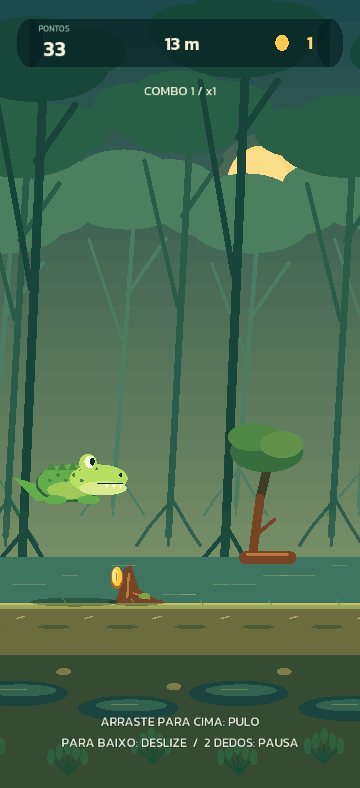
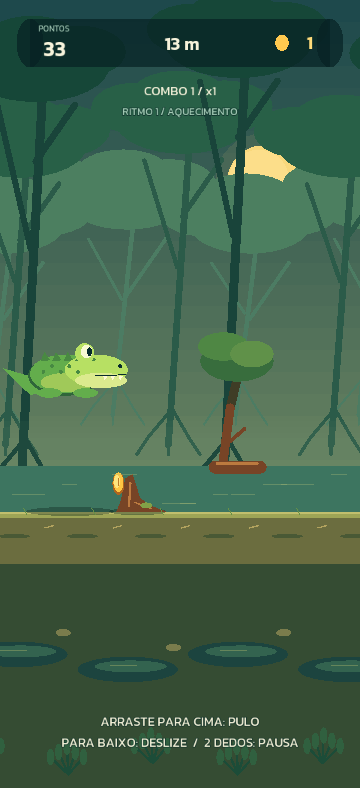
feat: improve framing and progressive obstacle sequences

diff --git a/src/Level.cpp b/src/Level.cpp
@@ -30,6 +30,7 @@ void Level::Reset(std::uint32_t seed, bool procedural) {
     entities.clear();
     nextEncounter = 30.0;
     encounterCount = 0;
+    previousPattern = -1;
     nextId = 1;
     generate = procedural;
     GenerateAhead(0.0);
@@ -46,23 +47,46 @@ void Level::Spawn(EntityType type, double distance, double height) {
 void Level::GenerateAhead(double playerDistance) {
     if (!generate) return;
     while (nextEncounter < playerDistance + Balance::LookAhead) {
-        const bool ground = random() % 2 == 0;
-        Spawn(ground ? EntityType::Ground : EntityType::High, nextEncounter);
-        // Recompensa junto ao obstaculo valoriza a acao correta.
-        Spawn(ground ? EntityType::Fish : EntityType::Crab, nextEncounter, ground ? 2.0 : 0.5);
-        for (int coin = 1; coin <= 3; ++coin) {
-            Spawn(EntityType::Coin, nextEncounter + 12.0 + coin * 2.0, 0.5);
+        // Difficulty follows this run, never the saved profile: retries start gently.
+        const double intensity = std::clamp(nextEncounter / 1800.0, 0.0, 1.0);
+        const int available = nextEncounter < 180 ? 2 : nextEncounter < 550 ? 4 : 6;
+        int pattern = static_cast<int>(random() % available);
+        if (pattern == previousPattern) pattern = (pattern + 1) % available;
+        previousPattern = pattern;
+        // Singles, alternating pairs, repeated jumps and three-action combinations.
+        static constexpr EntityType patterns[6][3] = {
+            {EntityType::Ground, EntityType::Ground, EntityType::Ground},
+            {EntityType::High, EntityType::High, EntityType::High},
+            {EntityType::Ground, EntityType::High, EntityType::Ground},
+            {EntityType::High, EntityType::Ground, EntityType::High},
+            {EntityType::Ground, EntityType::Ground, EntityType::High},
+            {EntityType::High, EntityType::Ground, EntityType::High}
+        };
+        const int count = pattern < 2 ? 1 : pattern < 4 ? 2 : 3;
+        // Using the maximum speed guarantees recovery time even while accelerating.
+        const double actionGap = Balance::MaximumSpeed * (1.65 - .30 * intensity);
+        double at = nextEncounter;
+        for (int action = 0; action < count; ++action) {
+            const auto type = patterns[pattern][action];
+            const bool jump = type == EntityType::Ground;
+            Spawn(type, at);
+            Spawn(jump ? EntityType::Fish : EntityType::Crab, at, jump ? 2.0 : .5);
+            // Coin trails preview the required action; no optional jump before a branch.
+            for (int coin = -1; coin <= 1; ++coin)
+                Spawn(EntityType::Coin, at + coin * 2.0, jump ? 1.8 : .5);
+            if (action + 1 < count) at += actionGap;
         }
-        const bool rare = random() % 5 == 0;
-        Spawn(rare ? EntityType::RareFish : EntityType::Crab, nextEncounter + 25.0, rare ? 2.0 : 0.5);
+        // A short reward/recovery lane separates combinations.
+        for (int coin = 0; coin < 3; ++coin)
+            Spawn(EntityType::Coin, at + 16 + coin * 3, .5);
+        Spawn(random() % 5 == 0 ? EntityType::RareFish : EntityType::Crab, at + 22, .5);
         ++encounterCount;
         if (encounterCount % 4 == 0) {
             Spawn(encounterCount % 8 == 0 ? EntityType::Magnet : EntityType::Shield,
-                  nextEncounter + 32.0, 0.5);
+                  at + 25.0, 0.5);
         }
         // Espacamento permite terminar uma acao antes do proximo obstaculo.
-        const double minimumGap = std::max(48.0, 72.0 - nextEncounter * 0.015);
-        nextEncounter += minimumGap + static_cast<double>(random() % 13);
+        nextEncounter = at + 58.0 - 18.0 * intensity + static_cast<double>(random() % 9);
     }
 }
 

diff --git a/visual/Source/MainScene.cpp b/visual/Source/MainScene.cpp
@@ -33,9 +33,10 @@
 using namespace ax;
 namespace {
 constexpr float Contact = 168;
-constexpr float PixelsPerMeter = 12;
-constexpr float HeightScale = 66;
-constexpr float CrocScale = 1.18f;
+// More preview distance at top speed while keeping the character prominent.
+constexpr float PixelsPerMeter = 9;
+constexpr float HeightScale = 76;
+constexpr float CrocScale = 1.28f;
 const Color4F Ink(0.035f, 0.17f, 0.18f, 1);
 const Color4F Lime(0.78f, 0.94f, 0.39f, 1);
 const Color4B Cream(247, 243, 219, 255);
@@ -59,7 +60,7 @@ std::string whole(double value) { return std::to_string(static_cast<long long>(v
 bool MainScene::init() {
     if (!Scene::init()) return false;
     viewHeight = Director::getInstance()->getVisibleSize().height;
-    floorY = viewHeight * 0.235f;
+    floorY = viewHeight * 0.35f;
     world = DrawNode::create(); addChild(world);
     panels = DrawNode::create(); addChild(panels, 1);
     ui = Node::create(); addChild(ui, 2);
@@ -205,7 +206,7 @@ void MainScene::suspend() {
 
 void MainScene::rebuildUI() {
     ui->removeAllChildren(); panels->clear(); buttons.clear();
-    score = distance = coins = status = gestureHint = nullptr;
+    score = distance = coins = status = pace = gestureHint = nullptr;
     gestures.Cancel(); activeTouch = -1; touchAction = Action::None;
     const auto state = game.GetState();
     const auto safe = Director::getInstance()->getSafeAreaRect();
@@ -253,6 +254,8 @@ void MainScene::rebuildUI() {
     coins = text(whole(game.GetRunCoins()), 24, {413, top - 29}, Color4B(255,219,122,255), true);
     if (state == GameState::Playing) {
         status = text("", 17, {240, top - 93}, Cream);
+        pace = text("", 14, {240, top - 121}, Muted);
+        pace->enableOutline(Color4B(13,47,42,210), 1);
         gestureHint = text("ARRASTE PARA CIMA: PULO\nPARA BAIXO: DESLIZE  /  2 DEDOS: PAUSA",
                            17, {240, bottom + 49}, Cream);
         gestureHint->setAlignment(TextHAlignment::CENTER);
@@ -432,7 +435,8 @@ void MainScene::drawEntity(const VisualEntity& object) {
 
 void MainScene::drawWorld() {
     world->clear();
-    const float h=viewHeight, ground=floorY;
+    const float h=viewHeight;
+    const float ground=game.GetState()==GameState::Menu ? h*.29f : floorY;
     // Sky reaches the real edges of the device; no letterboxed bands or reserved control area.
     for(int i=0;i<36;++i) {
         const float t=i/35.0f;
@@ -517,7 +521,7 @@ void MainScene::update(float dt) {
     const auto size = Director::getInstance()->getVisibleSize();
     if (std::abs(size.height - viewHeight) > .5f) {
         viewHeight = size.height;
-        floorY = viewHeight * .235f;
+        floorY = viewHeight * .35f;
         rebuildUI();
     }
     // Clamp a slow frame instead of teleporting through obstacles after a stall.
@@ -539,6 +543,14 @@ void MainScene::update(float dt) {
     if (score) score->setString(whole(game.GetScore()));
     if (distance) distance->setString(whole(game.GetDistance())+" m");
     if (coins) coins->setString(whole(game.GetRunCoins()));
+    if (pace) {
+        const double meters = game.GetDistance();
+        pace->setString(meters < 180 ? "RITMO 1 / AQUECIMENTO" :
+                        meters < 550 ? "RITMO 2 / SEQUENCIAS DUPLAS" :
+                        meters < 1100 ? "RITMO 3 / DESAFIOS TRIPLOS" :
+                        meters < 1800 ? "RITMO 4 / MANGUE ACELERADO" :
+                                        "RITMO 5 / CORRIDA SELVAGEM");
+    }
     if (status) {
         std::string info;
         if (!shop && game.GetShieldSeconds()>0) info+="ESCUDO "+whole(std::ceil(game.GetShieldSeconds()))+"s  ";

diff --git a/tests/mechanics_tests.cpp b/tests/mechanics_tests.cpp
@@ -264,7 +264,7 @@ void SeedAndGeneration() {
     for (int distance = 10; distance < 10000; distance += 10) {
         a.Crossed(distance - 10, distance);
         a.GenerateAhead(distance);
-        CHECK(a.GetEntities().size() < 50); // Percurso infinito com memoria limitada.
+        CHECK(a.GetEntities().size() < 90); // Includes the complete last generated combination.
         CHECK(!a.GetEntities().empty());
         for (const auto& entity : a.GetEntities()) CHECK(entity.distance > distance);
     }
@@ -322,7 +322,7 @@ void PlayableProceduralRuns() {
     for (std::uint32_t seed = 0; seed < 100; ++seed) {
         GameManager game;
         game.StartGame(seed);
-        for (int step = 0; step < 1600 && game.IsPlaying(); ++step) {
+        for (int step = 0; step < 4000 && game.IsPlaying(); ++step) {
             if (game.GetPlayer().IsGrounded() && !game.GetPlayer().IsSliding()) {
                 for (const auto& entity : game.GetLevel().GetEntities()) {
                     if ((entity.distance - game.GetDistance()) / game.GetSpeed() > 0.3) break;
@@ -337,9 +337,38 @@ void PlayableProceduralRuns() {
             game.TakeMessages();
         }
         CHECK(game.IsPlaying());
-        CHECK(game.GetDistance() > 1300 && game.GetObstaclesPassed() >= 18);
+        CHECK(game.GetDistance() > 4000 && game.GetObstaclesPassed() >= 90);
         CHECK(game.GetFoods() > 20 && game.GetRunCoins() > 40);
         CHECK(game.GetScore() > static_cast<std::int64_t>(game.GetDistance()));
+    }
+}
+
+void ProgressiveEncounterSafety() {
+    for (std::uint32_t seed = 0; seed < 100; ++seed) {
+        Level level;
+        level.Reset(seed);
+        double previous = -100;
+        int early = 0, late = 0, repeated = 0, alternating = 0;
+        EntityType previousType = EntityType::Coin;
+        for (int distance = 10; distance <= 6000; distance += 10) {
+            for (const auto& entity : level.Crossed(distance - 10, distance)) {
+                if (!IsObstacle(entity.type)) continue;
+                // At maximum speed, enough time to finish either action and react again.
+                const double seconds = (entity.distance - previous) / Balance::MaximumSpeed;
+                CHECK(seconds >= 1.35 - 1e-7);
+                CHECK(seconds > Balance::SlideSeconds + .4);
+                CHECK(seconds > 2 * Balance::JumpForce / -Balance::Gravity + .4);
+                if (entity.distance <= 1000) ++early;
+                if (entity.distance >= 5000) ++late;
+                if (previousType == entity.type) ++repeated;
+                else ++alternating;
+                previous = entity.distance;
+                previousType = entity.type;
+            }
+            level.GenerateAhead(distance);
+        }
+        CHECK(late > early);
+        CHECK(repeated > 5 && alternating > 5);
     }
 }
 
@@ -352,7 +381,8 @@ int main() {
         {"pausa e reinicio", PauseAndRestart}, {"recompensas e loja", RewardsAndShop},
         {"velocidade e passos de tempo", SpeedAndFrameIndependence}, {"geracao e seeds", SeedAndGeneration},
         {"persistencia e save invalido", PersistenceAndInvalidSave},
-        {"100 percursos jogaveis", PlayableProceduralRuns}
+        {"100 percursos jogaveis", PlayableProceduralRuns},
+        {"progressao e recuperacao entre obstaculos", ProgressiveEncounterSafety}
     };
     int failures = 0;
     for (const auto& test : tests) {

diff --git a/visual/Source/MainScene.h b/visual/Source/MainScene.h
@@ -54,6 +54,7 @@ private:
     ax::Label* distance = nullptr;
     ax::Label* coins = nullptr;
     ax::Label* status = nullptr;
+    ax::Label* pace = nullptr;
     ax::Label* gestureHint = nullptr;
     std::vector<Button> buttons;
     std::filesystem::path savePath;

diff --git a/include/Level.h b/include/Level.h
@@ -32,6 +32,7 @@ private:
     std::vector<Entity> entities;
     double nextEncounter = 30.0;
     int encounterCount = 0;
+    int previousPattern = -1;
     std::uint64_t nextId = 1;
     bool generate = true;
 };

diff --git a/CRONOGRAMA_PRODUCAO.md b/CRONOGRAMA_PRODUCAO.md
@@ -1,6 +1,6 @@
 # JacaRun — Cronograma de produção e monetização
 
-**Versão:** 1.2 · **Atualizado em:** 24/09/2026 · **Status:** revisão visual 0.3 após vídeo do primeiro teste Android; reteste mobile em andamento
+**Versão:** 1.3 · **Atualizado em:** 24/09/2026 · **Status:** revisão 0.4 de enquadramento e percurso; reteste mobile em andamento
 
 **Objetivo:** publicar um jogo mobile estável na Google Play e na App Store, com monetização por anúncios e acompanhamento de retenção, custos e receita.
 
@@ -12,9 +12,9 @@ A rota proposta é **Android primeiro, lançamento inicial no Brasil e iOS na se
 | --- | --- | --- |
 | Regras do jogo | Núcleo C++ ligado à cena Axmol: corrida contínua, pulo, deslize, obstáculos, alimentos, moedas, combos e power-ups | Validar sensação de jogo e colisões em aparelho |
 | Progressão | Loja visual, acessórios visíveis, XP, níveis, recordes e save no diretório gravável da plataforma | Teste mobile, balanceamento, migração e recuperação guiada de save |
-| Testes | 14 grupos/100 percursos do núcleo + 3 grupos de apresentação/gestos aprovados; prova visual em duas proporções; vídeo do usuário demonstra a 0.2 no Android | Reteste físico da 0.3, integração dos SDKs, anúncios e atualização de versão |
+| Testes | 15 grupos do núcleo + 3 de apresentação/gestos aprovados; prova visual em duas proporções; vídeos Android da 0.2/0.3 | Reteste físico da 0.4, integração dos SDKs, anúncios e atualização de versão |
 | Visual e áudio | Mangue, parallax, personagem e UI provisórios desenhados em código; fonte com OFL | Arte e animações finais, tutorial, música, efeitos e inventário de licenças |
-| Android e iOS | Axmol 2.11.4 fixado; APK Android arm64 em revisão 0.3.0; entradas iOS preparadas | Reteste físico; build iOS em Mac, assinaturas de produção, beta e submissão |
+| Android e iOS | Axmol 2.11.4 fixado; APK Android arm64 em revisão 0.4.0; entradas iOS preparadas | Reteste físico; build iOS em Mac, assinaturas de produção, beta e submissão |
 | Anúncios | Não integrados | Contas, SDKs, política etária, consentimento, rewarded, validação e relatórios |
 | Serviços online | Não implementados | O primeiro lançamento não depende de login, nuvem ou ranking |
 | Ambiente local | Windows validado; primeiro teste Android recebido em vídeo | Nova versão precisa ser instalada/retestada pelo usuário; Mac/iPhone ainda não validados |
@@ -297,7 +297,7 @@ Execução técnica antecipada, autorizada para iniciar a versão visual. As dat
 
 **Evidências locais:** `build/Testing/Temporary/LastTest.log`, `output/visual-smoke-20260924-113351/result.txt` e capturas na mesma pasta. O repositório inclui [menu](docs/images/prototipo-menu.png) e [corrida](docs/images/prototipo-corrida.png). O comando `build-visual.ps1 -Smoke` reproduz a prova com outro diretório e perfil isolado. Logs e binários não são versionados.
 
-**Android atual:** `output/JacaRun-0.3.0-debug.apk` (aproximadamente 24 MB), também copiado para `output/JacaRun-debug.apk`; build reproduzível por `build-android.ps1`. Assinatura e verificações estáticas de 16 KB passaram, mas a execução em ambiente de páginas de 16 KB ainda precisa ser testada. Detalhes no [registro de validação](docs/VALIDACAO_VISUAL.md).
+**Android atual:** `output/JacaRun-0.4.0-debug.apk` (aproximadamente 24 MB), também copiado para `output/JacaRun-debug.apk`; build reproduzível por `build-android.ps1`. Assinatura e verificações estáticas de 16 KB passaram, mas a execução em ambiente de páginas de 16 KB ainda precisa ser testada. Detalhes no [registro de validação](docs/VALIDACAO_VISUAL.md).
 
 ### Revisão 0.3 — feedback do vídeo Android, 24/09/2026
 
@@ -321,7 +321,7 @@ O usuário enviou `example-android.mp4`, com aproximadamente 33,5 segundos. A gr
 
 | ID | Tarefa | Responsável | Estimativa de esforço | Dependência | Aceite |
 | --- | --- | --- | --- | --- | --- |
-| MOB-01 | Retestar o APK 0.3 no Android já usado pelo usuário | Desenvolvimento + titular do aparelho | 4–8 h | APK atualizado e aparelho autorizado | Gestos, retomada e save conferidos; modelo/Android/evidências registrados |
+| MOB-01 | Retestar o APK 0.4 no Android já usado pelo usuário | Desenvolvimento + titular do aparelho | 4–8 h | APK atualizado e aparelho autorizado | Gestos, retomada e save conferidos; modelo/Android/evidências registrados |
 | VIS-02 | Validar ajustes de tela cheia, permanência dos objetos e gestos | Desenvolvimento | 8–16 h | Reteste MOB-01 | Sessão de 15 min e duas proporções de tela sem defeito crítico |
 | IOS-01 | Gerar build e validar em iPhone | Desenvolvimento + titular da conta | 8–16 h, além da obtenção de acesso | Mac, Xcode e iPhone | Mesmo ciclo jogável instalado e save/ciclo de vida conferidos |
 | ADS-01 | Definir público, elegibilidade e contas; provar callback nativo de teste | Produto + Desenvolvimento | 12–24 h após decisões | Decisões etárias, conta AdMob e builds mobile | Anúncio de teste não bloqueia o jogo e callback é entregue uma vez |
@@ -346,11 +346,22 @@ Esforços acima são estimativas de trabalho, não tempo de espera por aparelhos
 | --- | --- |
 | Semana/data | Preparação antecipada · 24/09/2026 |
 | Marco em andamento | M2/M3 parcialmente executados; M1 aguarda decisões de produto/contas |
-| Entregas demonstradas | Vídeo Android da 0.2; revisão visual 0.3 em duas proporções; 14 grupos de regras + 3 de apresentação/gestos; APK arm64 e capturas |
+| Entregas demonstradas | Vídeos Android da 0.2/0.3; revisão 0.4 em duas proporções; 15 grupos de regras + 3 de apresentação/gestos; APK arm64 e capturas |
 | Horas previstas/realizadas | A preencher |
-| Impedimentos e responsáveis | Titular: retestar 0.3 e informar modelo/Android; acesso a Mac/iPhone pendente; Produto: público, orçamento e contas; Desenvolvimento: fechar prova mobile |
+| Impedimentos e responsáveis | Titular: retestar 0.4 e informar modelo/Android; acesso a Mac/iPhone pendente; Produto: público, orçamento e contas; Desenvolvimento: fechar prova mobile |
 | Custo acumulado e saldo de orçamento | A preencher |
 | Métricas disponíveis | Amostra, período e plataforma |
 | Próxima decisão | Titular/Produto: confirmar a nova interação no Android e decisões de M1 antes da prova de publicidade |
 
-**Próxima entrega concreta:** atualizar para o APK 0.3 no Android e retestar gestos, tela cheia, objetos, pausa e save; completar MOB-01 com evidências. Em paralelo, fechar decisões de M1 e organizar Mac/iPhone para concluir a prova multiplataforma e de anúncios do M2.
+**Próxima entrega concreta:** atualizar para o APK 0.4 no Android e retestar enquadramento, sequências, gestos, pausa e save; completar MOB-01 com evidências. Em paralelo, fechar decisões de M1 e organizar a compilação iOS em Mac remoto para concluir a prova multiplataforma e de anúncios do M2.
+
+### Atualização de jogabilidade — 24/09/2026, versão 0.4
+
+- [x] Revisar o segundo vídeo Android: aproximadamente 54 s, corrida até 692 m, objetos ultrapassados visíveis, combos e power-ups. Isso não encerra a validação de 15 minutos.
+- [x] Subir a faixa da corrida de 23,5% para 35% da altura e aumentar o jacaré; ampliar a distância visível à frente.
+- [x] Implementar seis padrões de obstáculos, duplas após 180 m e triplas após 550 m; aumentar a densidade até 1.800 m, com limite de velocidade e recuperação entre ações.
+- [x] Mostrar o ritmo atual no HUD e alinhar as trilhas de moedas ao salto/deslize esperado.
+- [x] Validar 100 corridas simuladas de mais de 4 km e verificar progressão/espaçamento em 100 percursos de 6 km: 15 grupos de mecânicas e 3 de apresentação aprovados.
+- [ ] Retestar a 0.4 no Android por 15 minutos, incluindo sequências após 550 m e ritmo máximo após 1.800 m; avaliar conforto, clareza e reação humana. MOB-01/VIS-02 continuam abertos.
+
+O nível de experiência salvo não aumenta a dificuldade inicial: cada tentativa recomeça no aquecimento. Publicidade, iOS e aprovação nas lojas continuam pendentes.

diff --git a/README.md b/README.md
@@ -6,7 +6,7 @@ Consulte o [cronograma de produção e monetização](CRONOGRAMA_PRODUCAO.md) pa
 
 JacaRun é um **endless runner 2D em desenvolvimento**, pensado para celulares em orientação vertical. Um jacaré corre pelo mangue, supera obstáculos, captura alimentos e coleta moedas para personalizar sua aparência.
 
-Este repositório contém um **protótipo visual em C++/Axmol**, com corrida em tempo real, mangue em tela cheia, controles por gestos, cenário provisório, loja, pausa, save e reinício. A interface de terminal continua disponível e compartilha as mesmas regras. A versão 0.3 remove os botões da corrida e mantém obstáculos e itens perdidos visíveis até saírem da tela. O vídeo do primeiro teste Android orientou esses ajustes; a nova versão ainda precisa de reteste físico.
+Este repositório contém um **protótipo visual em C++/Axmol**, com corrida em tempo real, mangue em tela cheia, controles por gestos, cenário provisório, loja, pausa, save e reinício. A interface de terminal continua disponível e compartilha as mesmas regras. A versão 0.4 destaca a ação mais perto do centro da tela e traz sequências progressivas de obstáculos. Os vídeos Android orientaram os ajustes; esta revisão ainda precisa de reteste físico.
 
 ![Protótipo visual do JacaRun](docs/images/prototipo-menu.png)
 
@@ -34,7 +34,13 @@ powershell -NoProfile -ExecutionPolicy Bypass -File .\build-visual.ps1 -Smoke
 
 O teste usa perfil isolado, envia eventos de gesto e verifica coleta, permanência dos objetos ultrapassados, pausa com dois dedos, save e reinício. Use também `-Aspect Tall` para testar a proporção 360 × 788 do vídeo de referência. As capturas e o relatório ficam em `output/visual-smoke-DATA-HORA/`. Consulte [o guia técnico visual](visual/README.md) para Android, iOS, limitações e licenças.
 
-**APK atual:** `output/JacaRun-0.3.0-debug.apk`. Transfira ao celular e instale como atualização da 0.2; o identificador e o formato do save foram preservados. Não é uma versão de loja.
+**APK atual:** `output/JacaRun-0.4.0-debug.apk`. Transfira ao celular e instale como atualização da 0.3; o identificador e o formato do save foram preservados. Não é uma versão de loja.
+
+### Ritmo da corrida
+
+O percurso começa com raízes e galhos isolados. Após 180 m surgem duplas; após 550 m, combinações de três ações, incluindo saltos seguidos e alternância entre pulo e deslize. Seis padrões evitam repetir imediatamente a mesma sequência. A densidade cresce até 1.800 m, com trechos de recompensa entre combinações e moedas indicando a altura da ação. O HUD mostra cinco faixas de ritmo.
+
+A velocidade continua limitada a 24 m/s. Os obstáculos mantêm pelo menos 1,35 s de separação nessa velocidade, permitindo terminar pulo ou deslize antes da próxima ação. Cada nova corrida recomeça suavemente, independentemente do nível salvo do perfil. Esses valores são experimentais e precisam de teste humano.
 
 ## Decisões confirmadas no GDD
 
@@ -129,7 +135,7 @@ A gravidade e o movimento vertical usam tempo decorrido. A pausa congela movimen
 | --- | ---: | --- |
 | Caranguejo | 20 | Baixo |
 | Peixe | 30 | No ar, junto a raízes |
-| Peixe raro | 100 | No ar, em algumas recompensas entre obstáculos |
+| Peixe raro | 100 | No chão, em algumas recompensas entre sequências |
 
 A coleta considera a altura do personagem. Alimentos fora do alcance são perdidos.
 

diff --git a/visual/README.md b/visual/README.md
@@ -1,4 +1,4 @@
-# JacaRun — protótipo visual 0.3
+# JacaRun — protótipo visual 0.4
 
 O aplicativo em `Source/` apresenta o mesmo `GameManager`, `Player`, `Level` e `Profile` da interface de terminal. Não existem regras de corrida separadas por plataforma. A cena cuida de desenho, input, menus e ciclo de vida; os diretórios nativos inicializam a aplicação e empacotam os recursos.
 
@@ -51,7 +51,7 @@ cmake --build build --config Debug
 ctest --test-dir build -C Debug --output-on-failure
 ```
 
-Execute em um Developer PowerShell, com CMake no PATH. O projeto raiz também gera `jacarun_cli`. Os 14 grupos do núcleo incluem 100 percursos procedurais; três grupos adicionais testam gestos, permanência dos objetos, coleta animada, descarte fora da tela e eventos sem duplicação.
+Execute em um Developer PowerShell, com CMake no PATH. O projeto raiz também gera `jacarun_cli`. Os 15 grupos do núcleo incluem 100 corridas longas e 100 percursos com verificação de progressão e espaçamento; três grupos adicionais testam gestos, permanência dos objetos, coleta animada, descarte fora da tela e eventos sem duplicação.
 
 ## Android de desenvolvimento
 
@@ -65,7 +65,7 @@ powershell -NoProfile -ExecutionPolicy Bypass -File .\build-android.ps1
 
 O script procura as instalações convencionais. É possível informar `-AndroidSdk`, `-AndroidNdk` e `-JavaHome`. As dependências Gradle ficam em `.deps/gradle`. O helper cria uma vista local dos componentes já instalados em `.deps/android-sdk` e `local.properties`, ambos ignorados pelo Git. Ele não instala SDKs nem aceita licenças; componentes ausentes devem ser preparados no Android Studio.
 
-Saída: `visual/proj.android/app/build/outputs/apk/debug/JacaRun-debug.apk`. O helper copia para `output/JacaRun-debug.apk` e `output/JacaRun-0.3.0-debug.apk` (versão obtida do metadata do build). É um APK de desenvolvimento; não é AAB de loja e não tem assinatura de produção. A 0.2 aparece no vídeo enviado pelo usuário; a 0.3 precisa de reteste físico. Veja o [registro de validação](../docs/VALIDACAO_VISUAL.md).
+Saída: `visual/proj.android/app/build/outputs/apk/debug/JacaRun-debug.apk`. O helper copia para `output/JacaRun-debug.apk` e `output/JacaRun-0.4.0-debug.apk` (versão obtida do metadata do build). É um APK de desenvolvimento; não é AAB de loja e não tem assinatura de produção. O segundo vídeo mostra a 0.3; a 0.4 precisa de reteste físico. Veja o [registro de validação](../docs/VALIDACAO_VISUAL.md).
 
 Para instalar em um Android próprio conectado e autorizado para depuração:
 

diff --git a/docs/VALIDACAO_VISUAL.md b/docs/VALIDACAO_VISUAL.md
@@ -1,4 +1,22 @@
-# Registro de validação — protótipo visual 0.3
+# Registro de validação — protótipo visual
+
+## Revisão 0.4 — enquadramento e percurso progressivo
+
+Em 24/09/2026, o segundo vídeo Android (aproximadamente 54 s, até 692 m) orientou esta revisão. Os quadros mostram a 0.3 com objetos persistentes, gestos sem botões de corrida e power-ups. Não houve medição de latência, áudio ou desempenho por essa inspeção.
+
+A 0.4 posiciona o chão em 35% da altura durante a corrida, amplia o jacaré e o deslocamento visual do salto e reduz a escala horizontal do mundo para oferecer cerca de 1,44 s de antecipação na velocidade máxima. O menu mantém enquadramento próprio. O HUD identifica cinco faixas de ritmo.
+
+O gerador usa seis combinações sem repetição imediata do mesmo padrão. Duplas começam após 180 m, triplas após 550 m e a densidade cresce até 1.800 m; o primeiro encontro gerado após cada limite inaugura a nova faixa. Separação mínima: 32,4 m, equivalente a 1,35 s a 24 m/s. As moedas acompanham a ação exigida e os intervalos oferecem recompensa no chão. A progressão depende da distância da tentativa, não do nível do perfil.
+
+Validação do núcleo: **15/15 grupos** aprovados, incluindo 100 corridas de 200 s com mais de 4 km sem derrota por um controlador automático, além da inspeção de espaçamento, variedade e maior densidade tardia em 100 percursos de 6 km. Apresentação/gestos: **3/3 grupos** aprovados. Esses testes verificam possibilidade mecânica; conforto e dificuldade humana continuam pendentes no Android.
+
+Prova visual final aprovada em 432 × 810 (`output/visual-smoke-20260924-124222`) e 360 × 788 (`output/visual-smoke-20260924-124243`), com inspeção das capturas. Gestos, coleta, objetos persistentes, pausa/retomada, derrota, reinício e save isolado passaram.
+
[1 lines of base64/hex data omitted]
+
+Pendente: instalar a atualização no aparelho, conferir preservação do save, jogar por 15 minutos e avaliar as sequências nos ritmos altos. Nenhuma execução física da 0.4 foi realizada nesta validação.
+
+## Histórico — revisão 0.3
 
 **Data:** 24/09/2026. **Escopo:** revisão do protótipo após o vídeo Android; não é aceite de produção.
 
